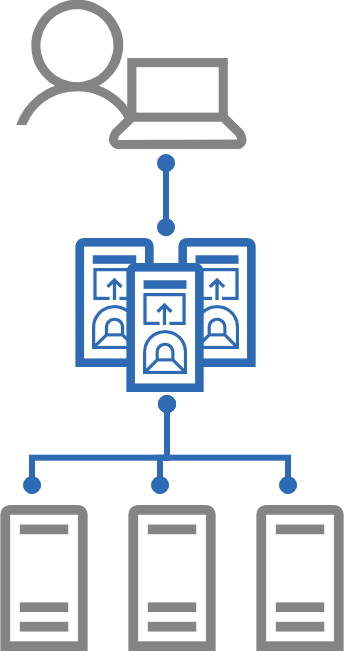
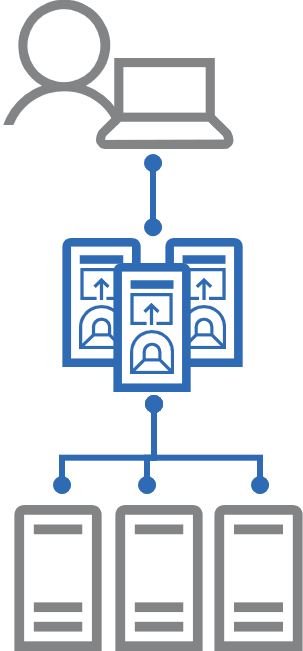
minor updates to installation-options.md

diff --git a/WindowsServerDocs/manage/honolulu-ga/plan/installation-options.md b/WindowsServerDocs/manage/honolulu-ga/plan/installation-options.md
@@ -53,7 +53,7 @@ and that the version is 5.0 or higher.
             <img src="../../media/honolulu-ga/deployment-options-1.png" width="125" alt="Diagram of Windows 10 desktop installation"> 
         </td>
         <td style="vertical-align: top;">
-            <img src="../../media/honolulu-ga/deployment-options-3.png" width="125" alt="Diagram of managed server installation"> 
+            <img src="../../media/honolulu-ga/deployment-options-3.png" width="160" alt="Diagram of managed server installation"> 
         </td>
         <td style="vertical-align: top;">
             <img src="../../media/honolulu-ga/deployment-options-2.png" width="125" alt="Diagram of desigated gateway server installation"> 
